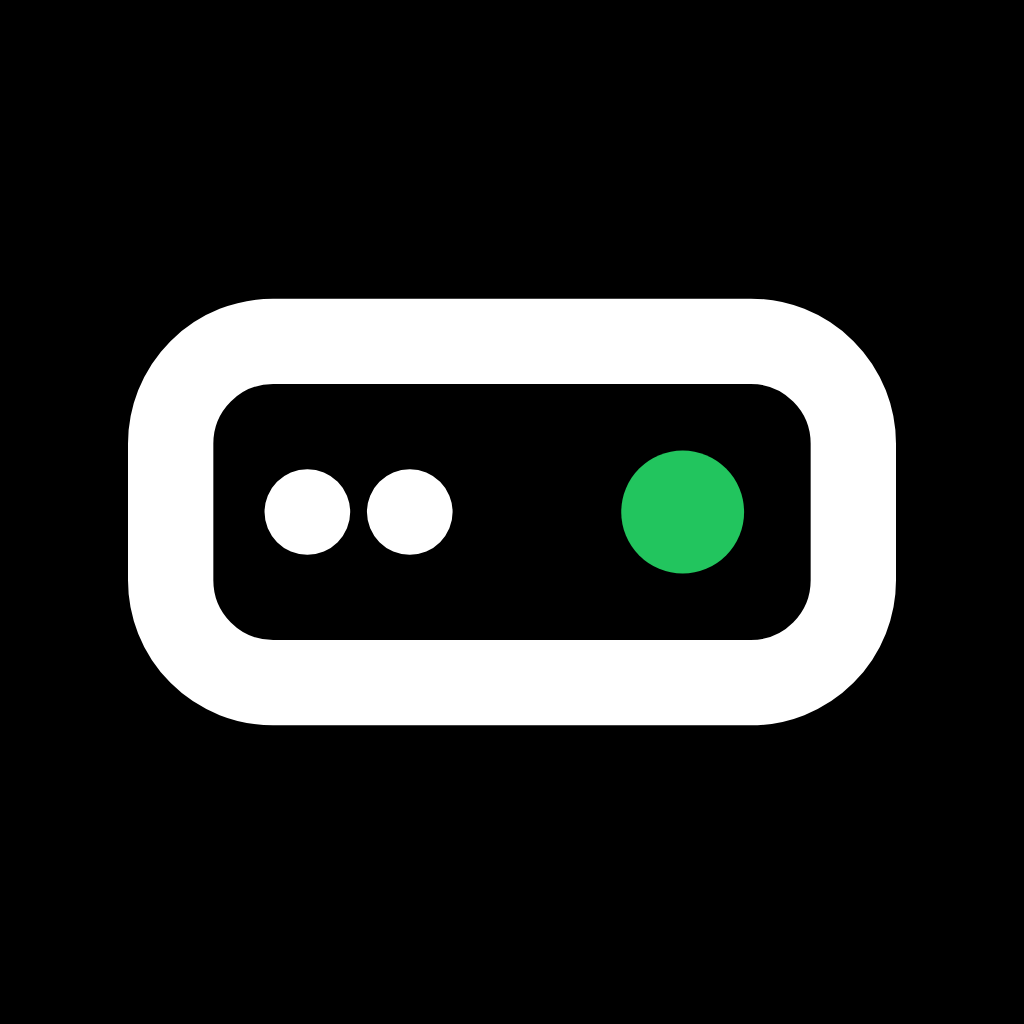
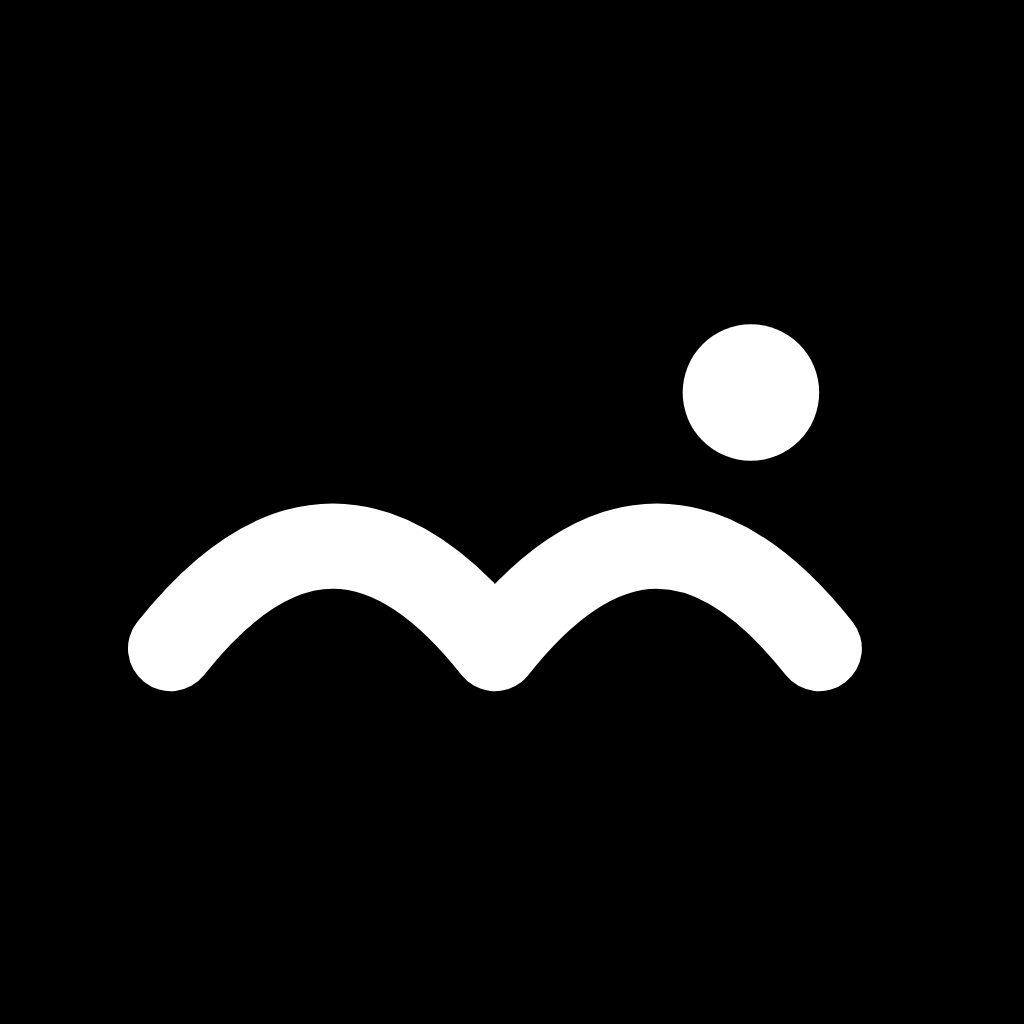
Use a tiny bird in flight as the brand mark
The disk drive with a green light becomes a white bird stroke under a
white sun, with no green, in every copy of the mark: the favicons, the
MCP setup page icon, BrandLogo and the plugin icons.

Changed region(s): [[0.125, 0.2812, 0.875, 0.7188]]

diff --git a/frontend/src/components/BrandLogo.vue b/frontend/src/components/BrandLogo.vue
@@ -5,8 +5,8 @@
 -->
 
 <script setup>
-// The permahost.io mark (see /favicon-light.svg): a disk drive whose status
-// light is green, i.e. online and staying online.
+// The permahost.io mark (see /favicon-light.svg): a tiny bird in flight
+// under a white sun.
 defineProps({
   // tile draws the mark white on a black square, like the favicon.
   tile: { type: Boolean, default: false },
@@ -28,9 +28,8 @@ defineProps({
       stroke-linejoin="round"
       aria-hidden="true"
     >
-      <rect x="2" y="7" width="20" height="10" rx="3" />
-      <path d="M6 12h.01M9 12h.01" />
-      <circle cx="17" cy="12" r="1.8" class="fill-green-500" stroke="none" />
+      <path d="M2 16q4.75-6 9.5 0q4.75-6 9.5 0" />
+      <circle cx="19" cy="8.5" r="2" fill="currentColor" stroke="none" />
     </svg>
   </span>
 </template>

diff --git a/frontend/test/components.test.js b/frontend/test/components.test.js
@@ -12,8 +12,8 @@ describe('BrandLogo', () => {
   it('renders plain and tile variants', () => {
     const plain = mount(BrandLogo)
     expect(plain.classes()).toContain('text-gray-900')
-    expect(plain.find('rect').exists()).toBe(true)
-    expect(plain.find('circle').classes()).toContain('fill-green-500')
+    expect(plain.find('path').exists()).toBe(true)
+    expect(plain.find('circle').attributes('fill')).toBe('currentColor')
     const tile = mount(BrandLogo, { props: { tile: true } })
     expect(tile.classes()).toContain('bg-black')
     expect(tile.find('svg').classes()).toContain('w-3/4')
